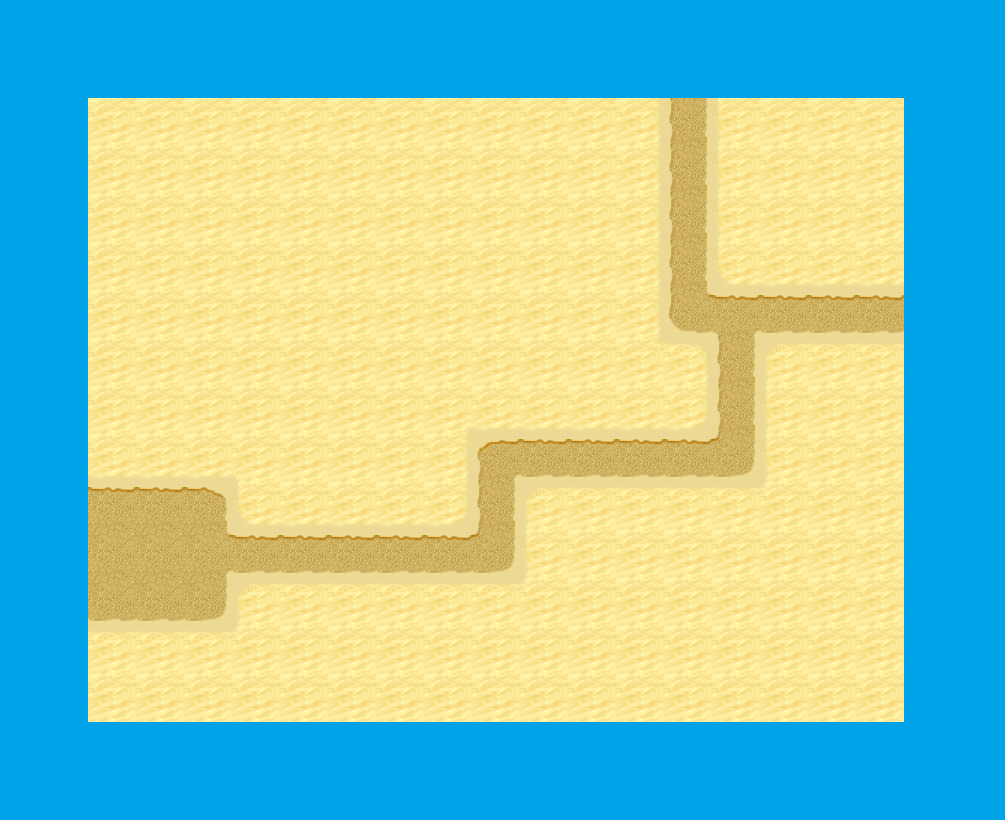
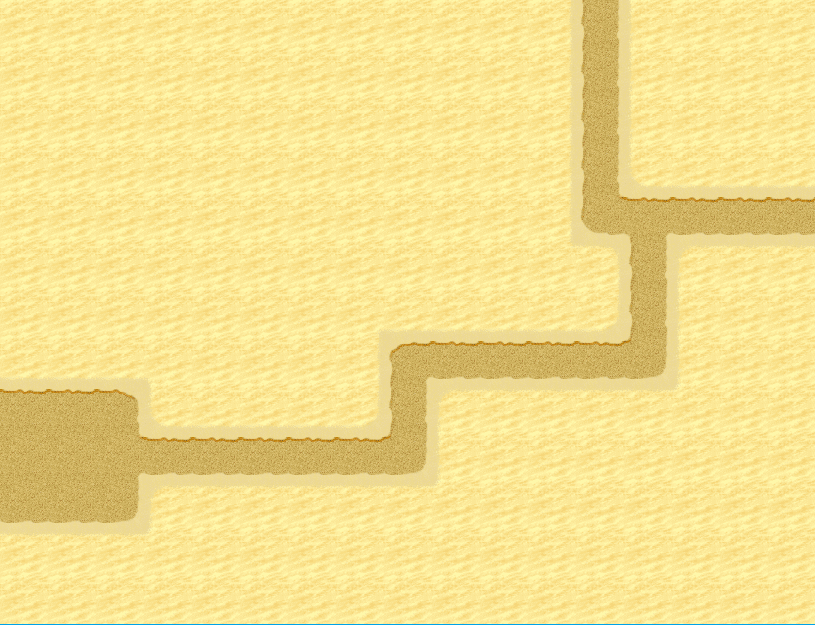
cimilia

diff --git a/index.py b/index.py
@@ -24,17 +24,35 @@ pos_pedra = {
 mapa_img.convert()
 player_img.convert()
 gota_img.convert()
-all_sprites = pygame.sprite.Group()
+madeira_img.convert()
+raio_img.convert()
 
+
+
+all_sprites = pygame.sprite.Group()
+all_pedras = pygame.sprite.Group()
+all_madeira = pygame.sprite.Group()
 #################################
 mapa_mov = Mapa(mapa_img)
 player_mov = Player(player_img)
-pedrita = Pedra(pedra_img)
+
 
 
 all_sprites.add(mapa_mov)
 all_sprites.add(player_mov)
-all_sprites.add(pedrita)
+
+
+
+for m in range(30):
+    madeira = Madeira(madeira_img)
+    all_madeira.add(madeira)
+for f in range(30):
+    pedrita = Pedra(pedra_img)
+    all_pedras.add(pedrita)
+
+
+
+
 
 
 while game == 1:
@@ -45,17 +63,18 @@ while game == 1:
 
     
 
+    # pedrita.rect.y = mapa_mov.speedy
+    # pedrita.rect.x = mapa_mov.speedx
+
     pos_p['x'] = player_mov.rect.left
     pos_p['y'] = player_mov.rect.bottom
 
     #Condições iniciais
-    pos_m['x'] = mapa_mov.rect.right
-    pos_m['y'] = mapa_mov.rect.top
+    pos_m['x'] = mapa_mov.rect.left
+    pos_m['y'] = mapa_mov.rect.bottom
 
 
-    pos_pedra['x_i'] = pedrita.rect.x
-    pos_pedra['y_i'] = pedrita.rect.y
-
+ 
 
 
 
@@ -65,101 +84,59 @@ while game == 1:
             game = 0
 
         #[Movimenta o mapa]
-        if pos_p['x'] == 520:
-            if event.type == pygame.KEYDOWN:    
-                if event.key == pygame.K_LEFT:
-                    mapa_mov.speedx += 13
 
-                if event.key == pygame.K_RIGHT:
-                    mapa_mov.speedx -= 13
-  
-            if event.type == pygame.KEYUP:
-                if event.key == pygame.K_LEFT:
-                    mapa_mov.speedx -= 13
+        if event.type == pygame.KEYDOWN:    
+            if event.key == pygame.K_LEFT:
+                mapa_mov.speedx += 13
 
-                if event.key == pygame.K_RIGHT:
-                    mapa_mov.speedx += 13
+            if event.key == pygame.K_RIGHT:
+                mapa_mov.speedx -= 13
+
+        if event.type == pygame.KEYUP:
+            if event.key == pygame.K_LEFT:
+                mapa_mov.speedx -= 13
+
+            if event.key == pygame.K_RIGHT:
+                mapa_mov.speedx += 13
+    
+
+        if event.type == pygame.KEYDOWN: 
+            if event.key == pygame.K_UP:
+                mapa_mov.speedy += 13
+
+            if event.key == pygame.K_DOWN:
+                mapa_mov.speedy -= 13
+
+        if event.type == pygame.KEYUP:
+            if event.key == pygame.K_UP:
+                mapa_mov.speedy -= 13
+    
+            if event.key == pygame.K_DOWN:
+                mapa_mov.speedy += 13
+        
        
-        if pos_p['y'] == 560: 
-            if event.type == pygame.KEYDOWN: 
-                if event.key == pygame.K_UP:
-                    mapa_mov.speedy += 13
+    #pick = pygame.sprite.groupcollide(player_mov,all_madeira,all_pedras,True)
 
-                if event.key == pygame.K_DOWN:
-                    mapa_mov.speedy -= 13
-   
-            if event.type == pygame.KEYUP:
-                if event.key == pygame.K_UP:
-                    mapa_mov.speedy -= 13
-        
-                if event.key == pygame.K_DOWN:
-                    mapa_mov.speedy += 13
-         
-       
-        #[Movimenta o personagem em X]
-        # if pos_m['x'] == 4000 or pos_m['x'] == 1290:
-        
-        
-        #     if pos_m['x'] == 4000:
-        #         pos_p['c_x'] = 0
-        #     if pos_m['x'] == 1290:
-        #         pos_p['c_x'] = 1
-        #     if event.type == pygame.KEYDOWN:    
-        #         if event.key == pygame.K_LEFT:
-        #             player_mov.speedx -= 10
-        #             pos_p['m_x'] = 1
-        #         if event.key == pygame.K_RIGHT:
-        #             player_mov.speedx += 10
-        #             pos_p['m_x'] = 1
+    if madeira.colliderect() in player_mov.colliderect():
+        madeira.kill()
 
-        #     if event.type == pygame.KEYUP: 
-        #         if event.key == pygame.K_LEFT and pos_p['m_x'] == 1:
-        #             player_mov.speedx += 10
-        #             pos_p['m_x'] = 0
-        #         if event.key == pygame.K_RIGHT and pos_p['m_x'] == 1:
-        #             player_mov.speedx -= 10 
-        
-        
-        # #[Movimenta o Personagem em Y]      
-        # if pos_m['y'] == 0 or pos_m['y'] == -1280:
-        
-        #     if pos_m['y'] == 0:
-        #         pos_p['c_y'] = 0
-        #     if pos_m['y'] == -1280:
-        #         pos_p['c_y'] = 1
-        #     if event.type == pygame.KEYDOWN:     
-        #         if event.key == pygame.K_UP:
-        #             player_mov.speedy -= 10
-        #             pos_p['m_y'] = 1
-        #         if event.key == pygame.K_DOWN:
-        #             player_mov.speedy += 10
-        #             pos_p['m_y'] = 1
-
-        #     if event.type == pygame.KEYUP: 
-        #         if event.key == pygame.K_UP and pos_p['m_y'] == 1:
-        #             player_mov.speedy += 10
-        #             pos_p['m_y'] == 0
-        #         if event.key == pygame.K_DOWN and pos_p['m_y'] == 1:
-        #             player_mov.speedy -= 10 
-        #             pos_p['m_y'] == 0
-
-                  
 ################################################################################################################        
         
     #print(mapa_mov.speedx)
-    print(pos_m,pos_pedra)
+    #print(pos_m)
     #print(p_p_x)
     #print(pm_x)
     all_sprites.update()
     #print(mapa_mov.speedy)
     #print(mov_px, mov_py)
     
-    
     window.fill(PRETO)
+    #window.blit(mar_img,(0,0))
     
     all_sprites.draw(window)
-    #window.blit(gota_c)
-    #window.blit(player_img, (520,360))
+    all_pedras.draw(mapa_img)
+    all_madeira.draw(mapa_img)
+    window.blit(visao_img,(0,0))
     pygame.display.update()
     
 pygame.quit()

diff --git a/classes.py b/classes.py
@@ -21,17 +21,17 @@ class Mapa(pygame.sprite.Sprite):
         self.rect.x += self.speedx 
         self.rect.y += self.speedy
             
-        if self.rect.right < x_size:
-            self.rect.right = 1290
+        if self.rect.right < 662:
+            self.rect.right = 662
         
-        if self.rect.left > 0:
-            self.rect.left = 0
+        if self.rect.right > 7000:
+            self.rect.right = 7000
 
-        if self.rect.top > 0:
-            self.rect.top = 0
+        if self.rect.top > 398:
+            self.rect.top = 398
 
-        if self.rect.bottom < y_size:
-            self.rect.bottom = y_size
+        if self.rect.top < -2696:
+            self.rect.top = -2696
 
 class Player(pygame.sprite.Sprite):
     def __init__(self,img):
@@ -42,27 +42,18 @@ class Player(pygame.sprite.Sprite):
         self.rect.y = 360
         self.speedx = 0
         self.speedy = 0
-    
-    def update (self):
-        self.rect.x += self.speedx 
-        self.rect.y += self.speedy
-            
-        if self.rect.right > 1365:
-            self.rect.right = 1365
-        
-        if self.rect.left < -75:
-            self.rect.left = -75
+        self.mask = img
 
-        if self.rect.top < -60:
-            self.rect.top = -60
 
-        if self.rect.bottom > 790:
-            self.rect.bottom = 790
+    def pick_up (self):
+        pass
+
 
 class Raio(pygame.sprite.Sprite):
     def __init__(self, img):
         pygame.sprite.Sprite.__init__(self)
         self.image = img
+        self.mask = img
         self.rect = self.image.get_rect()
         self.rect.x = random.randint(0, 4000)
         self.rect.y = random.randint(0, 2000)
@@ -71,10 +62,12 @@ class Madeira(pygame.sprite.Sprite):
     def __init__(self, img):
         pygame.sprite.Sprite.__init__(self)
         self.image = img
+        self.mask = img
         self.rect = self.image.get_rect()
         self.rect.x = random.randint(0, 4000)
-        self.rect.y = random.randint(0, 2000)
-    
+        self.rect.y = random.randint(504, 3598)
+        self.speedx = 0
+        self.speedy = 0
     def update(self):
         pass
 
@@ -82,9 +75,10 @@ class Pedra(pygame.sprite.Sprite):
     def __init__(self, img):
         pygame.sprite.Sprite.__init__(self)
         self.image = img
+        self.mask = img
         self.rect = self.image.get_rect()
-        self.rect.x = 0
-        self.rect.y = 100
+        self.rect.x = random.randint(0, 4000)
+        self.rect.y = random.randint(504, 3598)
         self.speedx = 0
         self.speedy = 0
     
@@ -99,6 +93,7 @@ class Gota(pygame.sprite.Sprite):
     def __init__(self, img):
         pygame.sprite.Sprite.__init__(self)
         self.image = img
+        self.mask = img
         self.rect = self.image.get_rect()
         self.rect.x = random.randint(0, 1290)
         self.rect.y = random.randint(0, 720)
@@ -117,6 +112,6 @@ class casa(pygame.sprite.Sprite):
         pygame.sprite.Sprite.__init__(self)
         self.image = img
         self.rect = self.image.get_rect()
-    
+        self.mask = img
     def update(self):
         pass

diff --git a/assets.py b/assets.py
@@ -5,7 +5,7 @@ from config import *
 
 map_dir = path.join(path.dirname(__file__), 'assets/img/map')
 mapa_img = pygame.image.load(path.join(map_dir, 'Map001.png'))
-mapa_img = pygame.transform.scale(mapa_img,(6400,1900))
+mapa_img = pygame.transform.scale(mapa_img,(6400,3200))
 
 #mapa_img = pygame.transform.scale(mapa_img,(100,100))
 
@@ -16,7 +16,7 @@ player_img = pygame.transform.scale(player_img,(200,200))
 
 madeira_dir = path.join(path.dirname(__file__), 'assets/img/items/madeira')
 madeira_img = pygame.image.load(path.join(madeira_dir, 'madeira.png'))
-madeira_img = pygame.transform.scale(madeira_img, (200, 200))
+madeira_img = pygame.transform.scale(madeira_img, (75, 75))
 
 gota_dir = path.join(path.dirname(__file__), 'assets/img/items/gota')
 gota_img = pygame.image.load(path.join(gota_dir, 'gota.png'))
@@ -31,5 +31,14 @@ casa_img = pygame.image.load(path.join(casa_dir, 'casa.png'))
 casa_img = pygame.transform.scale(casa_img, (50, 50))
 
 raio_dir = path.join(path.dirname(__file__), 'assets/img/items/raio')
-raio_img = pygame.image.load(path.join(raio_dir, 'raio.png'))
+raio_img = pygame.image.load(path.join(raio_dir, 'raio_1.png'))
 raio_img = pygame.transform.scale(raio_img, (20, 20))
+
+
+visao_dir = path.join(path.dirname(__file__), 'assets/img/items/visao')
+visao_img = pygame.image.load(path.join(visao_dir, 'camera.png'))
+visao_img = pygame.transform.scale(visao_img, (1290, 720))
+
+mar_dir = path.join(path.dirname(__file__), 'assets/img/items/mar')
+mar_img = pygame.image.load(path.join(mar_dir, 'mar.png'))
+mar_img = pygame.transform.scale(mar_img, (1290, 720))

diff --git a/config.py b/config.py
@@ -11,7 +11,7 @@ fase = 1
 
 
 #Fill
-PRETO = (255, 255, 255)
+PRETO = (0, 0, 0)
 
 
 p_p_x = 0
